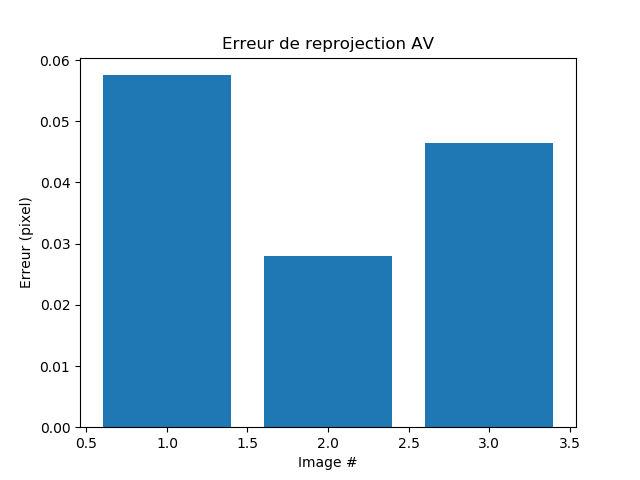
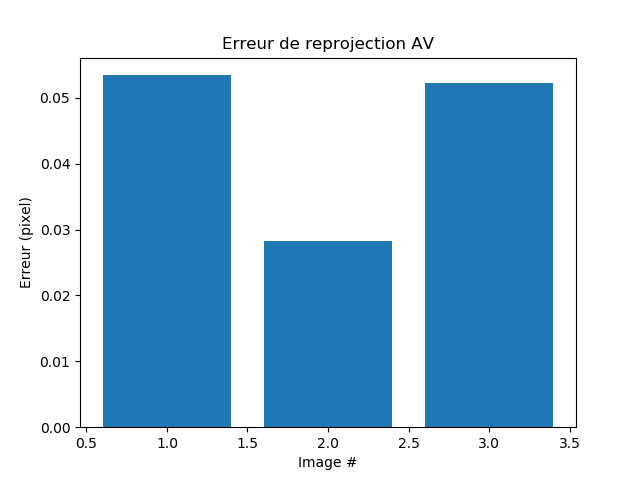
cacacacacaca

diff --git a/main.py b/main.py
@@ -10,8 +10,8 @@ from Camera import Camera
 from Ecran import Ecran
 from nc import *
 from util import *
-import dataPG_ as pg
-import dataAV_ as av
+import dataPG as pg
+import dataAV as av
 
 plt.close('all')
 
@@ -23,40 +23,38 @@ ecran = Ecran( W, w ,c )
 
 ###################
 # Camera Point Grey -------------------------------------
-sgmf1 = "./jc_menage/cam_match_PG.png"
-mask1 = "./jc_menage/conf_PG.png"
+sgmf1 = "./13mars/lentille_biconvexe/cam_match_PG.png"
 
-# K1 = np.genfromtxt('./calibration/data_PG/camera.txt')
-K1=np.transpose(np.array(pg.K))
+K1 = np.genfromtxt('./calibration/data_PG/camera.txt')
+# K1=np.transpose(np.array(pg.K))
 R1 = np.array(pg.R)
 T1 = np.array(pg.T)
 
 w1 = np.array( [3376, 2704] )
 W1 = w * 1.69e-6
 
-cam1 = Camera(ecran, K1, R1, T1, W1, w1, sgmf1, mask1)
+cam1 = Camera(ecran, K1, R1, T1, W1, w1, sgmf1)
 
 # Allied vision -------------------------------------
-sgmf2 = "./jc_menage/cam_match_AV.png"
-mask2 = "./jc_menage/conf_AV.png"
+sgmf2 = "./13mars/lentille_biconvexe/cam_match_AV.png"
 
-# K2 = np.genfromtxt('./calibration/data_AV/camera.txt')
-K2=np.transpose(np.array(av.K))
+K2 = np.genfromtxt('./calibration/data_AV/camera.txt')
+# K2=np.transpose(np.array(av.K))
 R2 = np.array(av.R)
 T2 = np.array(av.T)
 
 w2 = np.array( [780, 580] )
 W2 = w * 8.3e-6
 
-cam2 = Camera(ecran, K2, R2, T2, W2, w2, sgmf2, mask2)
+cam2 = Camera(ecran, K2, R2, T2, W2, w2, sgmf2)
 
 #################################################################
 
-d = np.array([0,0,-1])
+d = np.array([0,0,1])
 t = np.array([0,0,0])
 
 h=0.1e-2
-l=40e-2
+l=60e-2
 
 searchVolumeBasis = graham( d, [1,0,0], [0,1,0] )
 
@@ -80,7 +78,7 @@ for j in np.arange(-kx, kx):
 surf=Surface(grid)
 a=len(grid)
 search(surf, d, h, l, cam1, cam2, ecran)
-surf.get_good_points(0.005)
+surf.get_good_points(0.1)
 
 final_points=[]
 for p in surf.good_points:
@@ -92,19 +90,20 @@ for p in surf.good_points:
             final_points.append(p)
             p.pfinal=p.vecP[index[0]]
             p.vfinal= p.vecV[index[0]]
-            # plt.figure()
-            # fig, ax2 = plt.subplots(1,1)
-            # ax2.plot(p.vecP[:,2], p.vecV, '.')
-            # ax2.plot(p.pmin[2], p.valmin, 'rx')
-            # ax2.plot(p.pfinal[2], p.vfinal, 'bo')
-            # ax2.plot(p.vecP[:,2], signal)
-            # plt.show()
+            plt.figure()
+            fig, ax2 = plt.subplots(1,1)
+            ax2.plot(p.vecP[:,2], p.vecV, '.')
+            ax2.plot(p.pmin[2], p.valmin, 'rx')
+            ax2.plot(p.pfinal[2], p.vfinal, 'bo')
+            ax2.plot(p.vecP[:,2], signal)
+            plt.show()
 
 b=len(final_points)
 surf.enr_points_finaux(final_points)
 #Visualisation
 L=5e-2 #longueur des flêches
 montage_refEcran(surf, ecran, cam1, cam2, L, t, d)
+grilles_refEcran(surf, ecran, cam1, cam2, L, t, d)
 print(b/a*100)
 
 

diff --git a/calibration/calibration.py b/calibration/calibration.py
@@ -28,8 +28,9 @@ def takahashi(PATH, NB_CORNER_WIDTH, NB_CORNER_HEIGHT, squareSize, cam):
     CHECKERBOARD = (NB_CORNER_HEIGHT, NB_CORNER_WIDTH)
     # termination criteria
     criteria = (cv.TERM_CRITERIA_EPS + cv.TERM_CRITERIA_MAX_ITER, 30, 0.001)
+    # Images to analyse
     fnames = glob.glob(PATH)
-    # prepare object points (corner coordinates)
+    # Prepare object points (corner coordinates)
     objp = np.zeros((NB_CORNER_WIDTH*NB_CORNER_HEIGHT,3), np.float32)
     # objp[:,:2] = np.mgrid[0:NB_CORNER_HEIGHT,0:NB_CORNER_WIDTH].T.reshape(-1,2)
     k=0
@@ -43,14 +44,14 @@ def takahashi(PATH, NB_CORNER_WIDTH, NB_CORNER_HEIGHT, squareSize, cam):
     if len(fnames) > 0:
         # Intrinsic parameters
         mtx, dist = intrinsic(NB_CORNER_WIDTH, NB_CORNER_HEIGHT, CHECKERBOARD, criteria, objp, fnames)
-        # Write parameter to file
+        # Write intrinsic parameter to file
         r=open("./data_{}/camera.txt".format(cam),"w+")
         for row in mtx :
             r.write("{} {} {}\n".format(row[0], row[1], row[2]))
         r.close()
 
         # Undistort and takahashi for each image
-        index = [0, NB_CORNER_HEIGHT, -1]
+        index = [0, NB_CORNER_HEIGHT, -1] # Reference points
         j=1
         errs =[]; good_images=[];
         for fname in fnames:

diff --git a/dataAV.py b/dataAV.py
@@ -1,23 +1,23 @@
 # Allied Vision
 
 # Average reprojection error by TNM : 
-e=0.309018 #pixels
+e=0.167984 #pixels
 
 # ==== Parameters by TNM ====
 
-R = [[0.8902048382815902, 0.03029146503231933, 0.454552277572386],[0.2516664473553193, 0.7990131677123877, -0.5461153331465507],[-0.3797358887116149, 0.6005500686607335, 0.7036620423583956]]
+R = [[0.9960847629632972, -0.08425828034848437, -0.02675233046051495],[0.04925950076660113, 0.7802912957278176, -0.6234733317437311],[0.07340740137464097, 0.6197144794210635, 0.7813867911727859]]
 
-T  = [-0.09978850072890297, 0.1584003834786412, 0.1164556532766979]
+T  = [-0.01460872688336575, 0.1523554760754391, 0.1566237745494397]
 
-n1 = [-0.1007342579306744, 0.42526035922026, -0.8994477395352172]
+n1 = [0.1570626634089412, 0.5740509401847496, -0.8036148566545386]
 
-n2 = [-0.1687017804674219, 0.4077220811906037, -0.897386435030486]
+n2 = [-0.07278483973250398, 0.5496384355885942, -0.8322259051656808]
 
-n3 = [-0.1162944752974647, 0.4135162189404669, -0.9030392747209099]
+n3 = [0.1623813258612685, 0.4392506398906534, -0.8835673038128946]
 
-d1 = 0.205857
+d1 = 0.207194
 
-d2 = 0.207176
+d2 = 0.206845
 
-d3 = 0.211091
+d3 = 0.234875
 

diff --git a/dataPG.py b/dataPG.py
@@ -1,23 +1,23 @@
 # Point Grey
 
 # Average reprojection error by TNM : 
-e=0.818561 #pixels
+e=0.612241 #pixels
 
 # ==== Parameters by TNM ====
 
-R = [[0.8995372683246778, -0.09403415492084038, -0.4266031886933102],[-0.188819828029522, 0.7969256165461698, -0.5738088830223954],[0.3939286425710605, 0.5967136159003167, 0.6991087792048467]]
+R = [[0.9886168942401621, 0.041728167874999, 0.1445524002869965],[0.06095257625763989, 0.767315425687326, -0.6383665255555263],[-0.1375551521045022, 0.6399107730833054, 0.7560375537110797]]
 
-T  = [0.06505093695812147, 0.121827117655319, 0.2255492668402418]
+T  = [-0.02782654973596132, 0.1457052585448124, 0.1793746764486462]
 
-n1 = [0.190083719830794, 0.407217881011955, -0.893331840269573]
+n1 = [-0.06687628363647483, 0.6334923509098561, -0.7708534257728104]
 
-n2 = [0.2195597854776169, 0.4048913575711665, -0.8876128036284743]
+n2 = [0.04926713680638049, 0.6596047743764341, -0.749996193890819]
 
-n3 = [0.3009335971529765, 0.399282824062104, -0.8660324454161987]
+n3 = [-0.0856897328455181, 0.4932602607251844, -0.8656509601878736]
 
-d1 = 0.284702
+d1 = 0.19353
 
-d2 = 0.284142
+d2 = 0.163896
 
-d3 = 0.274106
+d3 = 0.230144
 

diff --git a/util.py b/util.py
@@ -114,6 +114,42 @@ def montage_refEcran(surf, ecran, cam1, cam2, L, t, d):
     # fig.write_image("fig_{}.eps".format(stra))
     fig.show()
 
+
+
+def grilles_refEcran(surf, ecran, cam1, cam2, L, t, d):
+
+    S=50
+    # Points de départ des flèches
+    oRecherche = t
+    # Vecteurs unitaires
+    dirRecherche = d
+
+    # Grille finale
+    data_grille_finale= go.Mesh3d(
+        x = surf.x_f,
+        y = surf.y_f,
+        z = surf.z_f,
+        opacity=0.2
+        )
+    data =  [data_grille_finale]
+
+    fig = go.Figure(data)
+
+    fig.update_layout(
+    scene = dict(xaxis_title='X', yaxis_title='Y',zaxis_title='Z',     aspectratio=dict(x=1, y=1, z=1),
+    aspectmode='manual',
+    camera = dict(
+    up=dict(x=0, y=0, z=-1),
+    center=dict(x=0, y=0, z=0),
+    eye=dict(x=1.25, y=1.25, z=-1.25)
+    )))
+
+    set_aspect_3D_plotly(cam1, fig)
+    fig.update_layout(showlegend=True)
+    # fig.write_image("fig_{}.eps".format(stra))
+    fig.show()
+
+
 def allo_refEcran(surf, ecran, cam1, cam2, L, t, d):
 
     S=50

diff --git a/nc.py b/nc.py
@@ -27,7 +27,7 @@ def search(surface, d, h, L, cam1, cam2, ecran):
     """
     N=int(np.floor(L/h)) # nombre d'itérations (de descentes) pour un seul point
     for p in surface.grid: # Loop sur les points
-        cam1.U.clear(); cam2.U.clear()
+        # cam1.U.clear(); cam2.U.clear()
         point = Point(N)
         n=0; index_min=None;
         p_initial = np.array([ p[0], p[1], p[2] ])
@@ -49,9 +49,9 @@ def search(surface, d, h, L, cam1, cam2, ecran):
         point.vecP=point.vecP[point.vecB]
         point.vecN1 = point.vecN1[point.vecB];
         point.vecN2 = point.vecN2[point.vecB];
-        # Enregistrer le point étudié
-        surface.ajouter_point(point)
-
+        # Enregistrer le point étudié seulement si au moins un bon point:
+        if point.indexmin:
+            surface.ajouter_point(point)
 
 
 def evaluatePoint(p, cam1, cam2, ecran):

diff --git a/Camera.py b/Camera.py
@@ -16,7 +16,7 @@ class Camera:
         -w      : Vecteur de la taille du CCD de la camera en [pix]                      | np.array()
         -SGMF   : String du nom du PNG de cartographie de pixel entre camera et ecran | str()
     """
-    def __init__(self, ecran, K, R, T, W, w, sgmf, mask):
+    def __init__(self, ecran, K, R, T, W, w, sgmf):
 
         # Setup
         self.ecran = ecran
@@ -66,7 +66,7 @@ class Camera:
         sgmfXY = cv2.imread(sgmf).astype('float64')
 
         #Importing confidence mask
-        self.mask = cv2.imread(mask).astype('int')
+        # self.mask = cv2.imread(mask).astype('int')
 
         #Green channel
         self.sgmf = np.zeros( (sgmfXY.shape[0], sgmfXY.shape[1], sgmfXY.shape[2]-1) )

diff --git a/jc_menage/dataAV.py b/jc_menage/dataAV.py
@@ -1,0 +1,23 @@
+# Allied Vision
+
+# Average reprojection error by TNM : 
+e=0.309018 #pixels
+
+# ==== Parameters by TNM ====
+
+R = [[0.8902048382815902, 0.03029146503231933, 0.454552277572386],[0.2516664473553193, 0.7990131677123877, -0.5461153331465507],[-0.3797358887116149, 0.6005500686607335, 0.7036620423583956]]
+
+T  = [-0.09978850072890297, 0.1584003834786412, 0.1164556532766979]
+
+n1 = [-0.1007342579306744, 0.42526035922026, -0.8994477395352172]
+
+n2 = [-0.1687017804674219, 0.4077220811906037, -0.897386435030486]
+
+n3 = [-0.1162944752974647, 0.4135162189404669, -0.9030392747209099]
+
+d1 = 0.205857
+
+d2 = 0.207176
+
+d3 = 0.211091
+

diff --git a/jc_menage/dataPG.py b/jc_menage/dataPG.py
@@ -1,0 +1,23 @@
+# Point Grey
+
+# Average reprojection error by TNM : 
+e=0.818561 #pixels
+
+# ==== Parameters by TNM ====
+
+R = [[0.8995372683246778, -0.09403415492084038, -0.4266031886933102],[-0.188819828029522, 0.7969256165461698, -0.5738088830223954],[0.3939286425710605, 0.5967136159003167, 0.6991087792048467]]
+
+T  = [0.06505093695812147, 0.121827117655319, 0.2255492668402418]
+
+n1 = [0.190083719830794, 0.407217881011955, -0.893331840269573]
+
+n2 = [0.2195597854776169, 0.4048913575711665, -0.8876128036284743]
+
+n3 = [0.3009335971529765, 0.399282824062104, -0.8660324454161987]
+
+d1 = 0.284702
+
+d2 = 0.284142
+
+d3 = 0.274106
+

diff --git a/Surface.py b/Surface.py
@@ -42,6 +42,7 @@ class Surface:
             self.x_i[i]=p[0]; self.y_i[i]=p[1]; self.z_i[i]=p[2]
 
     def enr_points_finaux(self, points):
+        """ À utiliser après le filtrage des points!"""
         n=len(points)
         self.x_f,self.y_f,self.z_f=np.zeros(n),np.zeros(n),np.zeros(n)
         for i in range(n):
@@ -51,5 +52,5 @@ class Surface:
     def get_good_points(self, CRITERE):
         self.good_points.clear()
         for p in self.points:
-            if p.indexmin and (p.valmin < CRITERE):
+            if (p.valmin < CRITERE):
                 self.good_points.append(p)
